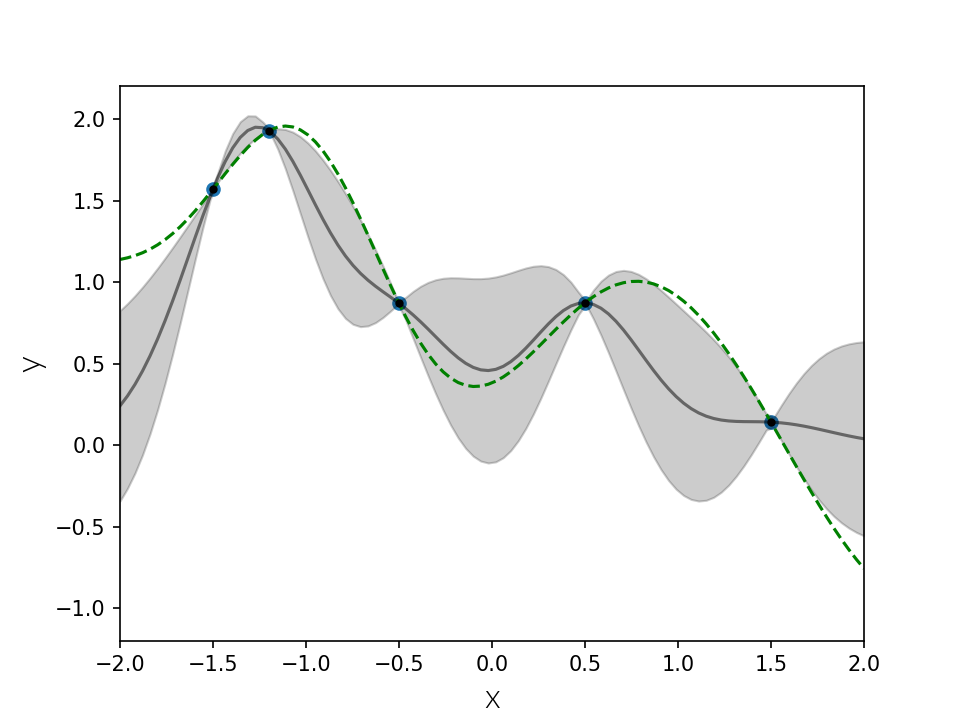
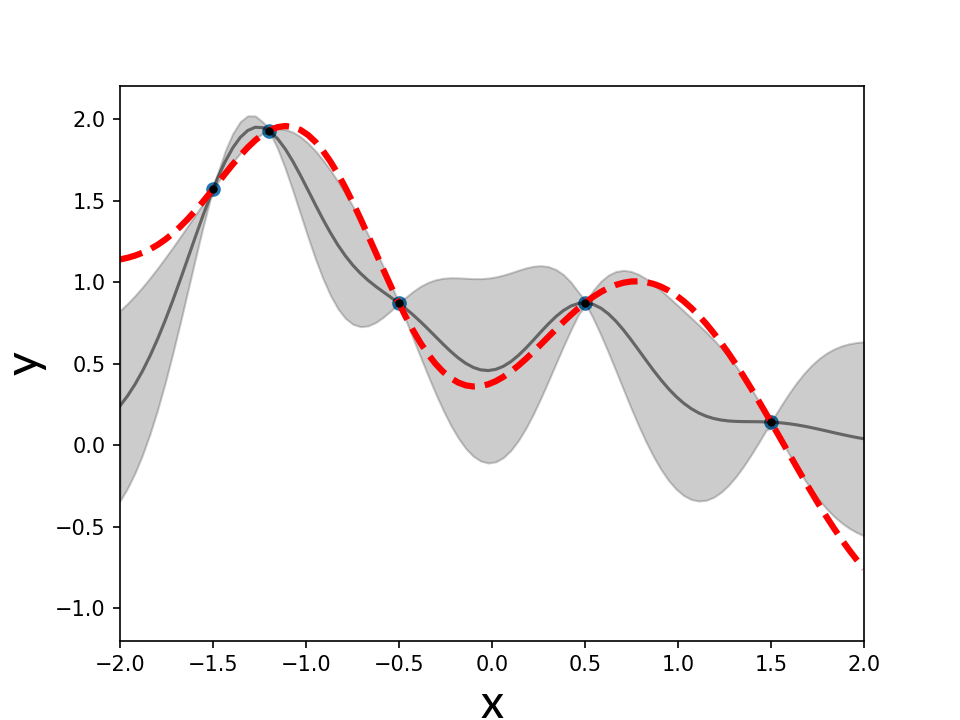
GPR updates

diff --git a/GPR/gpr_george.py b/GPR/gpr_george.py
@@ -7,8 +7,8 @@ import math
 
 ## Styles
 ## -------
-csfont = {'fontname':'Lato', "weight": "light"}
-fnt = 16
+csfont = {'fontname':'Lato', "weight": "medium"}
+fnt = 22
 
 ## Code
 ## -------
@@ -31,12 +31,12 @@ plt.plot(x_pred, pred, "k", lw=1.5, alpha=0.5)
 plt.errorbar(x, y, yerr=yerr, fmt=".k", capsize=0)
 
 # Real data model:
-plt.plot(x_pred, np.sin(2*x_pred) + 1/(2*math.pi*0.5)**0.5 * math.e**((-(x_pred + 1)**2)/(2*0.5**2))*5, "--g")
+plt.plot(x_pred, np.sin(2*x_pred) + 1/(2*math.pi*0.5)**0.5 * math.e**((-(x_pred + 1)**2)/(2*0.5**2))*5, "--r", lineWidth=3)
 
 plt.xlim(-2, 2)
 plt.ylim(-1.2, 2.2)
-plt.xlabel("x", fontsize=fnt, **csfont)
-plt.ylabel("y", fontsize=fnt, **csfont)
+plt.xlabel(r'x', fontsize=fnt, **csfont)
+plt.ylabel(r'y', fontsize=fnt, **csfont)
 filename = 'GPR_george.png'
 plt.savefig(filename, dpi = 150)
 
